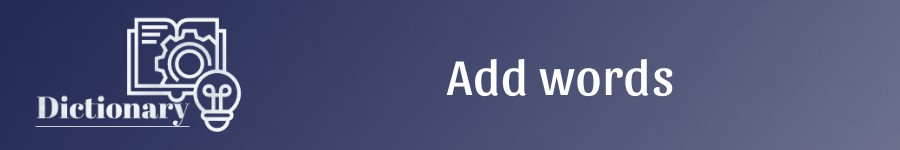
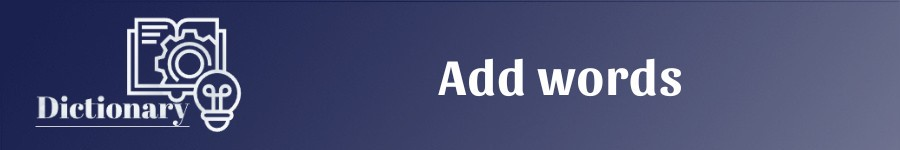
fix final

Changed region(s): [[0.4667, 0.3733, 0.7778, 0.64], [0.28, 0.0, 0.8711, 0.0267]]

diff --git a/src/main/java/graphicUserInterface/Menu.java b/src/main/java/graphicUserInterface/Menu.java
@@ -78,7 +78,7 @@ public class Menu extends JFrame implements BaseAbstractClass, ActionListener {
 
         buttonDictPanel = new RoundButton("Tra từ",20,20);
 
-        buttonDictPanel.setBounds(350, 80, 200, 60);
+        buttonDictPanel.setBounds(350, 80-20, 200, 60);
 
         buttonDictPanel.addActionListener(this);
         buttonDictPanel.setToolTipText("Tra từ");
@@ -87,7 +87,7 @@ public class Menu extends JFrame implements BaseAbstractClass, ActionListener {
 
 
         buttonNW = new RoundButton("Dịch văn bản",20,20);
-        buttonNW.setBounds(350, 160, 200, 60);
+        buttonNW.setBounds(350, 160-20, 200, 60);
         buttonNW.addActionListener(this);
         buttonNW.setToolTipText("Dịch văn bản");
         buttonNW.setIcon(iconTrans);
@@ -95,21 +95,21 @@ public class Menu extends JFrame implements BaseAbstractClass, ActionListener {
 
 
         buttonGame = new RoundButton("Trò chơi",20,20);
-        buttonGame.setBounds(350, 240, 200, 60);
+        buttonGame.setBounds(350, 240-20, 200, 60);
         buttonGame.addActionListener(this);
         buttonGame.setToolTipText("Trò chơi");
         buttonGame.setIcon(iconGame);
         jPanelRight.add(buttonGame);
 
         buttonSyantonym = new RoundButton("Từ đồng/trái nghĩa",20,20);
-        buttonSyantonym.setBounds(350, 320, 200, 60);
+        buttonSyantonym.setBounds(350, 320-20, 200, 60);
         buttonSyantonym.addActionListener(this);
         buttonSyantonym.setToolTipText("Tìm từ đồng/trái nghĩa");
         buttonSyantonym.setIcon(iconGame);
         jPanelRight.add(buttonSyantonym);
 
         buttonSetting = new RoundButton("Cài đặt",20,20);
-        buttonSetting.setBounds(350, 400, 200, 60);
+        buttonSetting.setBounds(350, 400-20, 200, 60);
         buttonSetting.addActionListener(this);
         buttonSetting.setToolTipText("Cài đặt");
         buttonSetting.setIcon(iconSetting);

diff --git a/src/main/java/imageDictionary/imageList.java b/src/main/java/imageDictionary/imageList.java
@@ -3,7 +3,7 @@ package imageDictionary;
 import javax.swing.*;
 
 public class imageList {
-    public static final ImageIcon iconLogo = new ImageIcon("src/main/java/UI/dictLogo.png");
+    public static final ImageIcon iconLogo = new ImageIcon("src/main/java/UI/dictLogo.jpg");
     public static final ImageIcon iconSearch = new ImageIcon("src/main/java/UI/glass.png");
     public static final ImageIcon iconClear = new ImageIcon("src/main/java/UI/clear.png");
 
@@ -36,5 +36,6 @@ public class imageList {
     public static final ImageIcon addP2 = new ImageIcon("src/main/java/UI/addP2.jpg");
     public static final ImageIcon modifyP = new ImageIcon("src/main/java/UI/modifyP.jpg");
     public static final ImageIcon modifyP2 = new ImageIcon("src/main/java/UI/modifyP2.jpg");
+    public static final ImageIcon simpP = new ImageIcon("src/main/java/UI/simpP.jpg");
     public static final ImageIcon restart = new ImageIcon("src/main/java/UI/restart.png");
 }

diff --git a/src/main/java/graphicUserInterface/Syantonym.java b/src/main/java/graphicUserInterface/Syantonym.java
@@ -29,8 +29,7 @@ public class Syantonym extends JFrame implements BaseAbstractClass, ActionListen
     JTextArea textFieldAns;
     JPanel jPanelTop, jPanelBot;
 
-    //boolean engToVie;
-    //String[] option = {"Tiếng Anh -- English", "Tiếng Việt -- Vietnamese"};
+
 
 
 
@@ -74,7 +73,7 @@ public class Syantonym extends JFrame implements BaseAbstractClass, ActionListen
     public void addToTop()
     {
         JLabel label1 = new JLabel();
-        ImageIcon imageIcon1 = new ImageIcon(transP.getImage());
+        ImageIcon imageIcon1 = new ImageIcon(simpP.getImage());
         label1.setIcon(imageIcon1);
         label1.setBounds(0,0,900,150);
         jPanelTop.add(label1);

diff --git a/src/main/java/API/SynonymAPI.java b/src/main/java/API/SynonymAPI.java
@@ -36,7 +36,12 @@ public class SynonymAPI {
         result = result.replaceAll("[\"{}\\[\\]]", "");
 
         result = result.replaceAll("(hypernyms|hyponyms|antonyms)", "\n\n$1");
-
+        result = result.replaceAll("synonyms" , " ❋ Synonyms\n");
+        result = result.replaceAll("antonyms" , " ❋ Antonyms\n");
+        result = result.replaceAll("hypernyms" , " ❋ Hypernyms\n");
+        result = result.replaceAll("hyponyms" , " ❋ Hyponyms\n");
+        result = result.replaceAll(",","\n    ⇨");
+        result = result.replaceAll(":","\n    ⇨");
         return result.trim();
     }
 }

diff --git a/src/main/java/graphicUserInterface/DictPanel.java b/src/main/java/graphicUserInterface/DictPanel.java
@@ -150,7 +150,7 @@ public class DictPanel extends JFrame implements ListSelectionListener,
      */
     void addPanelLeftTop() {
         labelLogo = new JLabel();
-        ImageIcon imageDictLogo = new ImageIcon(bg4.getImage());
+        ImageIcon imageDictLogo = new ImageIcon(iconLogo.getImage());
         labelLogo.setIcon(imageDictLogo);
         labelLogo.setBounds(0, 0, 290, 110);
         panelLeftTop.add(labelLogo);
